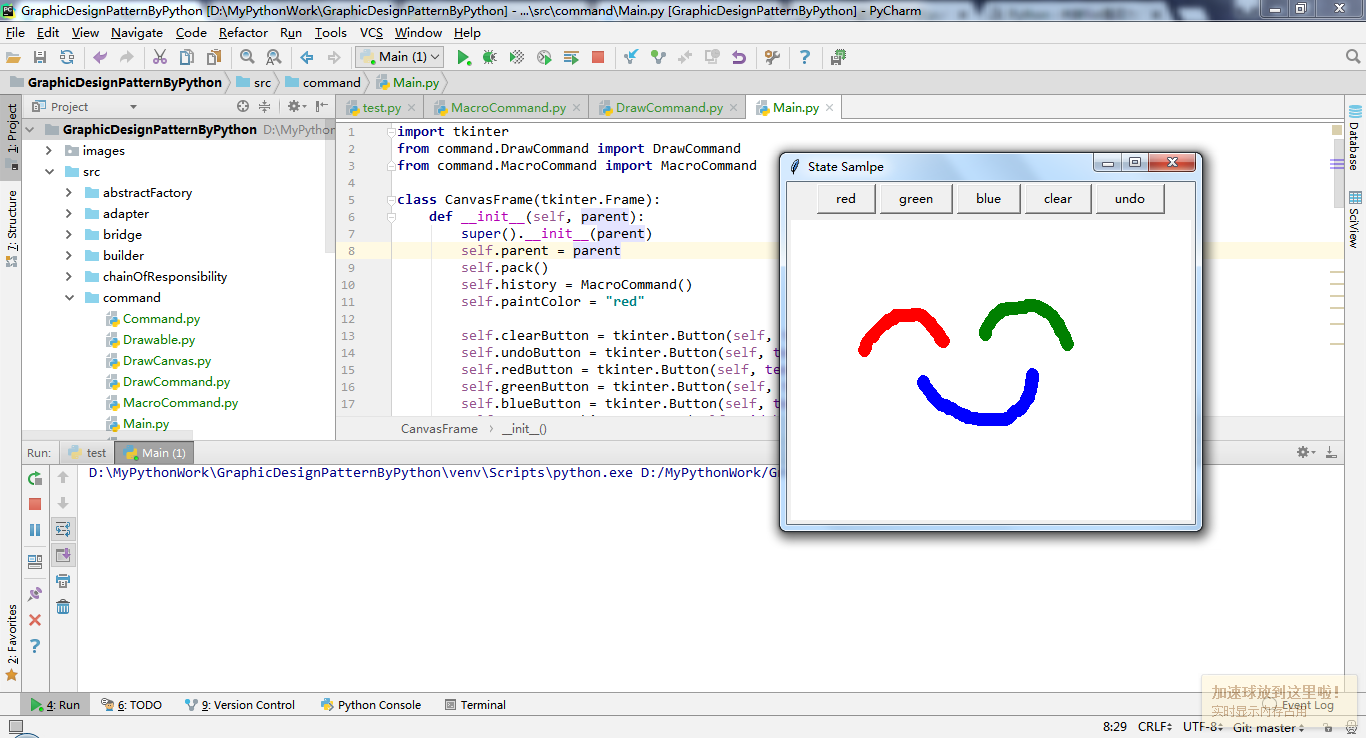
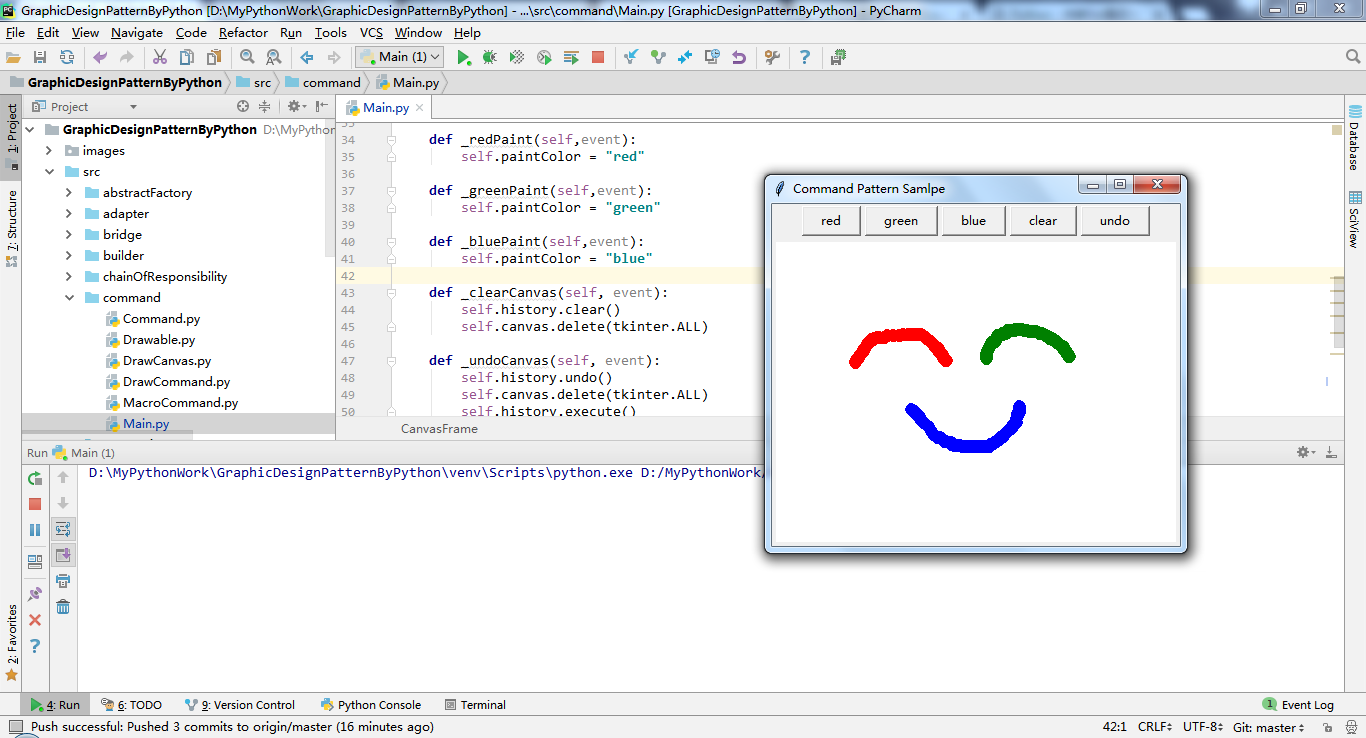
完善总结

diff --git a/src/command/Main.py b/src/command/Main.py
@@ -55,7 +55,7 @@ class CanvasFrame(tkinter.Frame):
         cmd.execute()
 
 application = tkinter.Tk()
-application.title("State Samlpe")
+application.title("Command Pattern Samlpe")
 window = CanvasFrame(application)
 application.protocol("WM_DELETE_WINDOW", window.quit)
 application.mainloop()

diff --git a/README.md b/README.md
@@ -1,4 +1,4 @@
-# 记录自己学习《图解设计模式》这本书的全部过程
+# 记录自己用Python重写《图解设计模式》这本书的示例程序的全部过程
 本书上传的所有代码都是可以运行的，在此附上本书源码地址： [http://www.ituring.com.cn/book/1811](http://www.ituring.com.cn/book/1811)<br/>
 在此向本书作者和译者表示感谢<br/>
 本书采用的是Java版本，笔者采用的**Python语言实现**所有设计模式，如果大家要参考Java版本的设计模式，可以链接到以下地址：
@@ -9,6 +9,7 @@ Python 版本：3.7.2<br/>
 PyCharm 版本：PyCharm 2017.3.3 (Professional Edition)
 
 ## 代码结构 ##
+![](https://i.imgur.com/4SCI2J5.png)
 <pre>
 src
 +---abstractFactory------------------------抽象工厂模式
@@ -35,8 +36,114 @@ src
 +---templateMethod-------------------------模版模式
 +---visitor--------------------------------访问者模式
 images-------------------------------------运行结果截图
-static-------------------------------------程序中需要用到的静态资源（程序中已经写好读取路径）
 </pre>
 
 ## 运行结果 ##
 ### 第一章-Iterator（迭代器）模式 ###
+示例
+![](https://i.imgur.com/zD4kRhU.png)
+### 第二章-Adapter（适配器）模式 ###
+示例
+![](https://i.imgur.com/dF2y6rk.png)
+### 第三章-Template Method（模版）模式 ###
+示例
+![](https://i.imgur.com/UTQKMNc.png)
+### 第四章-Factory Method（工厂）模式 ###
+示例
+![](https://i.imgur.com/KbSt5if.png)
+### 第五章-Singleton（单例）模式 ###
+示例
+![](https://i.imgur.com/p8sZ4Qn.png)
+### 第六章-Prototype（原型）模式 ###
+示例
+![](https://i.imgur.com/WzfpEdi.png)
+### 第七章-Builder（建造者）模式 ###
+示例
+![](https://i.imgur.com/BglmzM5.png)
+![](https://i.imgur.com/TV2Kywn.png)
+### 第八章-Abstract Factory（抽象工厂）模式 ###
+示例
+![](https://i.imgur.com/L082wOr.png)
+![](https://i.imgur.com/0L6Bqi7.png)
+![](https://i.imgur.com/1TmCJK1.png)
+![](https://i.imgur.com/PSUrCvs.png)
+### 第九章-Bridge（桥接）模式 ###
+示例
+![](https://i.imgur.com/H5HZeWl.png)
+### 第十章-Strategy（策略）模式 ###
+示例
+![](https://i.imgur.com/chGkcvK.png)
+### 第十一章-Composite（组合）模式 ###
+示例
+![](https://i.imgur.com/BYFLesj.png)
+### 第十二章-Decorator（装饰者）模式 ###
+示例
+![](https://i.imgur.com/9C9zuXN.png)
+### 第十三-Visitor（访问者）模式 ###
+示例
+![](https://i.imgur.com/KEnQDwl.png)
+### 第十四章-Chain of Responsibility（职责链）模式 ###
+示例
+![](https://i.imgur.com/1C6nFrf.png)
+### 第十五章-Facade（外观）模式 ###
+示例
+![](https://i.imgur.com/duTJUn9.png)
+![](https://i.imgur.com/OAfFHVN.png)
+### 第十六章-Mediator（中介者）模式 ###
+示例
+![](https://i.imgur.com/cTiG6Gl.png)
+![](https://i.imgur.com/JTuO39p.png)
+### 第十七章-Observer（观察者）模式 ###
+示例
+![](https://i.imgur.com/QuFj9X3.png)
+### 第十八章-Memento（备忘录）模式 ###
+示例
+![](https://i.imgur.com/S1wkyTW.png)
+### 第十九章-State（状态转换）模式 ###
+示例
+![](https://i.imgur.com/Elukzyp.png)
+### 第二十章-Flyweight（享元）模式 ###
+示例
+![](https://i.imgur.com/IfMmait.png)
+### 第二十一章-Proxy（代理）模式 ###
+示例
+![](https://i.imgur.com/9WXOXnS.png)
+### 第二十二章-Command（命令）模式 ###
+示例
+![](https://i.imgur.com/vs0LBIg.png)
+### 第二十三章-Interpreter（解释器）模式 ###
+示例
+![](https://i.imgur.com/kI7kowE.png)
+
+## 总结 ##
+1. 前后用了2天多的时间用Python重写了一遍《图解设计模式》中的示例代码，对于Python语言的使用更加熟练了。
+2. 上面23个设计模式，只有Mediator模式的重写还没有完成，程序总是报错，可能不支持tkinter的控件继承，该模式的Main.py是整合好的程序，可以运行。
+3. 对于Facade模式中的读取maildata.txt文件，由于Python没有Java Properties的类，笔者参照网上的方法，自己实现了一个。
+4. 对于Interpreter模式中词分处理，由于没有Java StringTokenizer类，笔者直接在Context中实现了该类的方法。
+5. 其中的几个GUI编程，采用的是Python自带的tkinter包，目前已经熟练使用Text, Button, Canvas, Label, Entry等控件。
+
+## 编程时的Tips ##
+1. 对于Python的循环继承的处理，可以所用到的方法内声明导入类。
+2. 针对Python的动态读取类信息，并生成类的实例可采用以下代码实现<pre>
+    @staticmethod
+    def get_factory(module_name, class_name):
+        module = importlib.import_module(module_name)
+        aclass = getattr(module, class_name)
+        factory = aclass()
+        return factory
+</pre>
+3. Python中并没有接口类的概念，由于可以多重继承，可采用以下代码实现<pre>
+    from abc import ABCMeta, abstractclassmethod
+    class Print(metaclass=ABCMeta):
+        @abstractclassmethod
+        def print_weak(self):
+            pass
+        @abstractclassmethod
+        def print_strong(self):
+            pass
+</pre>
+4. 在主程序内开启子线程，退出主程序之后，子线程依然会执行，可以采用标志位判断之后break，退出子线程，可参考State模式的示例代码。<br/>
+以下内容引用Python开发手册中关于杀死线程的警告：<pre>
+不要试图用强制方法杀掉一个python线程，这从服务设计上就存在不合理性。 
+多线程本用来任务的协作并发，如果你使用强制手段干掉线程，那么很大几率出现意想不到的bug。
+</pre>
